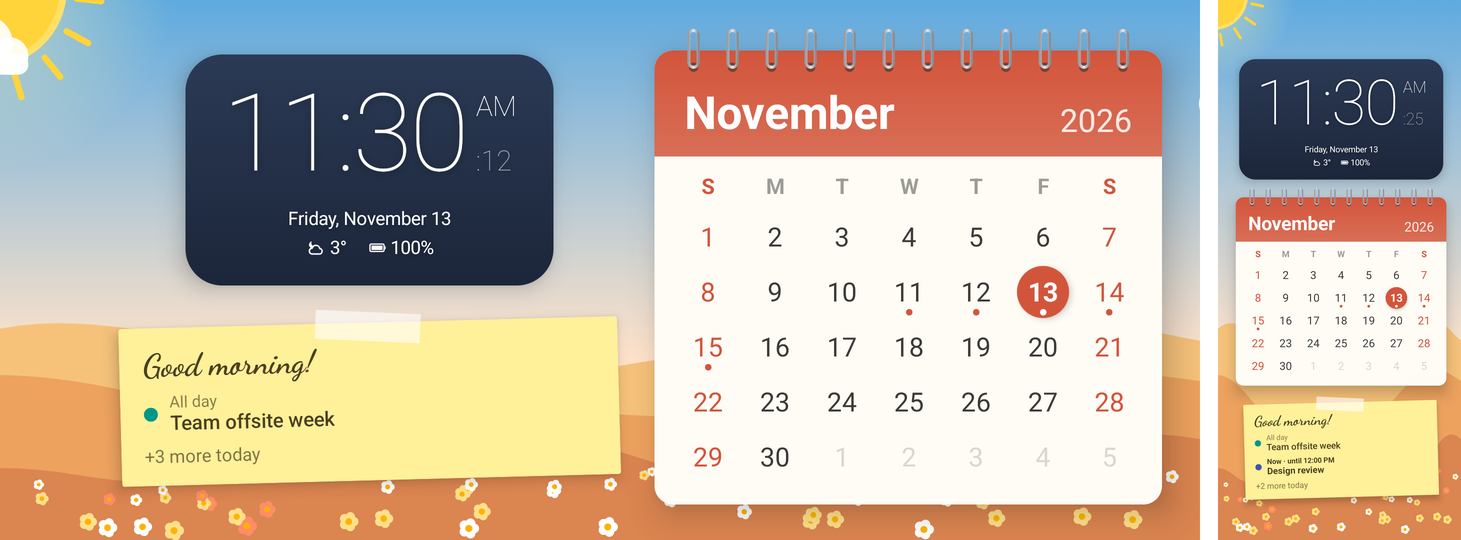
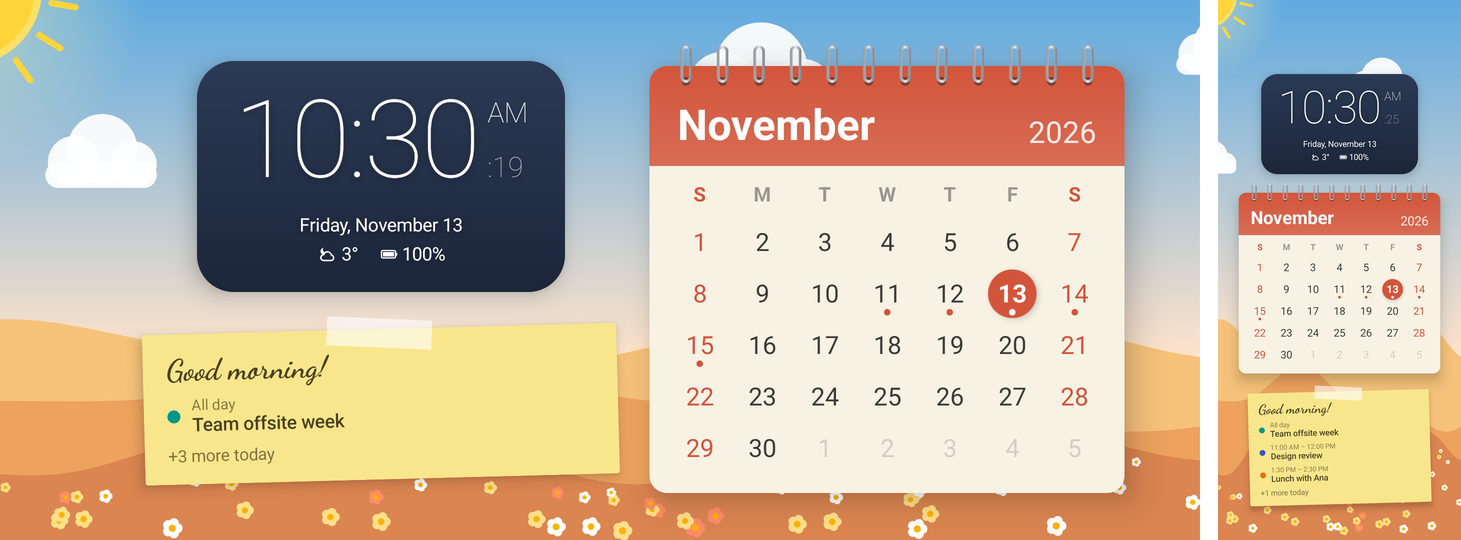
Strengthen Day mode's burn-in protection and fix its layout
Burn-in: with burn-in protection on, Day mode leaves a tenth of the
screen free so the drift moves it further, and in landscape the clock
and the calendar page swap sides every hour. The background keeps
moving: the hills scroll slowly, the sun circles its corner and a
photo pans. The page and the sticky note use warm tones below white.

Layout fixes from a real phone: the info line wraps onto a second line
instead of squeezing the next alarm into one letter per line (which
also made the clock panel tall enough to push the sticky note off
screen), AM/PM and seconds never break across lines, and the clock is
sized for the panel's padding. The clock's buttons are filled navy in
Day mode so they read over the bright background.

diff --git a/app/src/main/java/com/adl/nocturna/clock/ClockScreen.kt b/app/src/main/java/com/adl/nocturna/clock/ClockScreen.kt
@@ -25,6 +25,7 @@ import androidx.compose.foundation.layout.size
 import androidx.compose.foundation.layout.width
 import androidx.compose.foundation.layout.PaddingValues
 import androidx.compose.foundation.shape.CircleShape
+import androidx.compose.foundation.shape.RoundedCornerShape
 import androidx.compose.material3.ButtonDefaults
 import androidx.compose.ui.semantics.contentDescription
 import androidx.compose.ui.semantics.semantics
@@ -67,6 +68,7 @@ import com.adl.nocturna.notify.NotificationIconService
 import com.adl.nocturna.radio.Radio
 import com.adl.nocturna.ui.Glyph
 import com.adl.nocturna.ui.GlyphIcon
+import com.adl.nocturna.ui.DeskNavy
 import com.adl.nocturna.ui.NightRed
 import com.adl.nocturna.weather.WeatherRepository
 import com.adl.nocturna.weather.pickForecast
@@ -159,8 +161,9 @@ fun ClockScreen(
             )
     ) {
         val landscape = maxWidth > maxHeight
-        // In day mode the clock gets half the width (landscape) or the top of the screen (portrait).
-        val clockWidth = if (day && landscape) maxWidth * 0.5f else maxWidth
+        // In day mode the clock gets half the width (landscape) or the top of the screen (portrait),
+        // less the burn-in margin and the desk clock panel's padding.
+        val clockWidth = if (day) maxWidth * (if (landscape) 0.5f else 1f) * 0.9f - 72.dp else maxWidth
         val clockFontDp: Dp = minOf(
             clockWidth * (if (landscape && !day) 0.62f else 0.85f) / (if (settings.showSeconds || !settings.use24h) 3.3f else 2.8f),
             maxHeight * when {
@@ -194,8 +197,10 @@ fun ClockScreen(
         if (day) DayBackground(now, settings.dayPhotoVersion, Modifier.fillMaxSize())
 
         DriftLayout(enabled = settings.burnInProtection, modifier = Modifier.safeDrawingPadding().padding(16.dp)) {
-            // Day mode fills the screen; leaving a sliver free still lets burn-in protection move it.
-            if (day) DayLayout(landscape, now, settings, Modifier.fillMaxSize(0.96f), clock) else clock()
+            // Day mode fills the screen and stays up all day: with burn-in protection it leaves a tenth
+            // of the screen free, so the drift moves it noticeably.
+            if (day) DayLayout(landscape, now, settings, Modifier.fillMaxSize(if (settings.burnInProtection) 0.9f else 0.96f), clock)
+            else clock()
         }
 
         if (interactive) {
@@ -234,7 +239,13 @@ private fun InfoBlock(
         Spacer(Modifier.height(glyphSize * 0.4f))
     }
 
-    Row(horizontalArrangement = Arrangement.spacedBy(glyphSize * 1.2f), verticalAlignment = Alignment.CenterVertically) {
+    // Weather, forecast, battery and next alarm wrap onto a second line when they don't fit; in a Row
+    // the last item was squeezed until it stacked one letter per line.
+    FlowRow(
+        horizontalArrangement = Arrangement.spacedBy(glyphSize * 1.2f, Alignment.CenterHorizontally),
+        verticalArrangement = Arrangement.spacedBy(glyphSize * 0.3f),
+        itemVerticalAlignment = Alignment.CenterVertically,
+    ) {
         val w = weather
         if (settings.showWeather && w != null) {
             Row(verticalAlignment = Alignment.CenterVertically) {
@@ -245,12 +256,12 @@ private fun InfoBlock(
                     Spacer(Modifier.width(glyphSize * 0.6f))
                     val forecastStyle = style.copy(color = style.color.copy(alpha = style.color.alpha * 0.75f))
                     if (pick.tomorrow) {
-                        Text(pick.day.date.dayOfWeek.getDisplayName(DateTextStyle.SHORT, locale), style = forecastStyle)
+                        Text(pick.day.date.dayOfWeek.getDisplayName(DateTextStyle.SHORT, locale), style = forecastStyle, softWrap = false)
                         Spacer(Modifier.width(glyphSize * 0.3f))
                         GlyphIcon(pick.day.glyph, forecastStyle.color, glyphSize)
                         Spacer(Modifier.width(glyphSize * 0.3f))
                     }
-                    Text(pick.day.highLowText(settings.weatherFahrenheit), style = forecastStyle)
+                    Text(pick.day.highLowText(settings.weatherFahrenheit), style = forecastStyle, softWrap = false)
                 }
             }
         }
@@ -260,7 +271,7 @@ private fun InfoBlock(
                 GlyphIcon(Glyph.BATTERY, style.color, glyphSize, level = b.level)
                 if (b.charging) GlyphIcon(Glyph.BOLT, style.color, glyphSize * 0.8f)
                 Spacer(Modifier.width(glyphSize * 0.2f))
-                Text("${(b.level * 100).toInt()}%", style = style)
+                Text("${(b.level * 100).toInt()}%", style = style, softWrap = false)
             }
         }
         val a = nextAlarm
@@ -287,7 +298,7 @@ private fun Item(glyph: Glyph, text: String, color: Color, style: TextStyle, siz
     Row(verticalAlignment = Alignment.CenterVertically) {
         GlyphIcon(glyph, style.color, size)
         Spacer(Modifier.width(size * 0.3f))
-        Text(text, style = style)
+        Text(text, style = style, softWrap = false)
     }
 }
 
@@ -322,11 +333,22 @@ private fun Controls(
     val radioOn by Radio.isOn.collectAsStateWithLifecycle()
     val sleepAt by Radio.sleepAt.collectAsStateWithLifecycle()
     val error by Radio.error.collectAsStateWithLifecycle()
-    val buttonColors = ButtonDefaults.outlinedButtonColors(contentColor = color)
-    val border = BorderStroke(1.dp, color.copy(alpha = 0.5f))
+    // Over day mode's bright background, see-through buttons vanish: fill them in the desk clock's navy.
+    val buttonColors = if (day) ButtonDefaults.outlinedButtonColors(containerColor = DeskNavy, contentColor = Color.White)
+    else ButtonDefaults.outlinedButtonColors(contentColor = color)
+    val border = if (day) BorderStroke(1.dp, Color.White.copy(alpha = 0.35f)) else BorderStroke(1.dp, color.copy(alpha = 0.5f))
 
     Column(horizontalAlignment = Alignment.CenterHorizontally) {
-        error?.let { Text(it, color = color.copy(alpha = 0.8f), fontSize = 14.sp, modifier = Modifier.padding(bottom = 8.dp)) }
+        error?.let {
+            Text(
+                it,
+                color = if (day) Color.White else color.copy(alpha = 0.8f),
+                fontSize = 14.sp,
+                modifier = Modifier
+                    .padding(bottom = 8.dp)
+                    .then(if (day) Modifier.background(DeskNavy, RoundedCornerShape(12.dp)).padding(horizontal = 12.dp, vertical = 6.dp) else Modifier),
+            )
+        }
         FlowRow(
             horizontalArrangement = Arrangement.spacedBy(8.dp, Alignment.CenterHorizontally),
             itemVerticalAlignment = Alignment.CenterVertically,

diff --git a/app/src/main/java/com/adl/nocturna/day/DayScreen.kt b/app/src/main/java/com/adl/nocturna/day/DayScreen.kt
@@ -1,6 +1,8 @@
 package com.adl.nocturna.day
 
 import android.text.format.DateFormat
+import androidx.compose.animation.Crossfade
+import androidx.compose.animation.core.tween
 import androidx.compose.foundation.Canvas
 import androidx.compose.foundation.Image
 import androidx.compose.foundation.background
@@ -30,6 +32,7 @@ import androidx.compose.ui.Modifier
 import androidx.compose.ui.draw.clip
 import androidx.compose.ui.draw.rotate
 import androidx.compose.ui.draw.shadow
+import androidx.compose.ui.graphics.graphicsLayer
 import androidx.compose.ui.geometry.CornerRadius
 import androidx.compose.ui.geometry.Offset
 import androidx.compose.ui.geometry.Size
@@ -59,9 +62,10 @@ import java.time.ZonedDateTime
 import java.time.format.DateTimeFormatter
 import java.time.temporal.WeekFields
 
-private val Paper = Color(0xFFFFFCF5)
+// Warm and a touch below white: kinder to OLED pixels lit all day, and it still reads as paper.
+private val Paper = Color(0xFFF8F2E4)
 private val Ink = Color(0xFF3B3A36)
-private val NoteYellow = Color(0xFFFFF09A)
+private val NoteYellow = Color(0xFFF8E68C)
 private val NoteInk = Color(0xFF4A3F1F)
 
 /**
@@ -77,7 +81,19 @@ fun DayBackground(now: ZonedDateTime, photoVersion: Long, modifier: Modifier = M
     Box(modifier) {
         val p = photo
         if (p != null) {
-            Image(p, contentDescription = null, contentScale = ContentScale.Crop, modifier = Modifier.fillMaxSize())
+            // A slow pan, so no part of the photo stays on the same pixels all day.
+            val (panX, panY) = photoPan(now.toLocalTime().toSecondOfDay().toFloat())
+            Image(
+                p,
+                contentDescription = null,
+                contentScale = ContentScale.Crop,
+                modifier = Modifier.fillMaxSize().graphicsLayer {
+                    scaleX = PHOTO_SCALE
+                    scaleY = PHOTO_SCALE
+                    translationX = panX * size.width
+                    translationY = panY * size.height
+                },
+            )
             // Shade the top and bottom a little so the white clock and the page stand out on any photo.
             Box(
                 Modifier.fillMaxSize().background(
@@ -114,19 +130,27 @@ fun DayLayout(
     BoxWithConstraints(modifier) {
         val noteFont = with(LocalDensity.current) { (minOf(maxWidth, maxHeight) * 0.042f).coerceIn(14.dp, 22.dp).toSp() }
         if (landscape) {
-            Row(Modifier.fillMaxSize(), verticalAlignment = Alignment.CenterVertically) {
-                Column(
-                    Modifier.weight(1f).fillMaxHeight(),
-                    horizontalAlignment = Alignment.CenterHorizontally,
-                    verticalArrangement = Arrangement.spacedBy(20.dp, Alignment.CenterVertically),
-                ) {
-                    ClockPanel(clock)
-                    if (settings.showCalendarEvents) {
-                        StickyNote(now, events, settings.use24h, theme, noteFont, Modifier.widthIn(max = 380.dp).weight(1f, fill = false))
+            // Every other hour the clock and the page trade places, so the bright page and the dark
+            // clock don't sit on the same pixels all day.
+            Crossfade(sidesSwapped(now.hour, settings.burnInProtection), animationSpec = tween(1500), label = "sides") { swapped ->
+                Row(Modifier.fillMaxSize(), verticalAlignment = Alignment.CenterVertically) {
+                    val clockSide = @Composable {
+                        Column(
+                            Modifier.weight(1f).fillMaxHeight(),
+                            horizontalAlignment = Alignment.CenterHorizontally,
+                            verticalArrangement = Arrangement.spacedBy(20.dp, Alignment.CenterVertically),
+                        ) {
+                            ClockPanel(clock)
+                            if (settings.showCalendarEvents) {
+                                StickyNote(now, events, settings.use24h, theme, noteFont, Modifier.widthIn(max = 380.dp).weight(1f, fill = false))
+                            }
+                        }
                     }
+                    val pageSide = @Composable { DeskPage(today, weeks, dots, theme, Modifier.weight(1f).fillMaxHeight()) }
+                    if (swapped) pageSide() else clockSide()
+                    Spacer(Modifier.width(24.dp))
+                    if (swapped) clockSide() else pageSide()
                 }
-                Spacer(Modifier.width(24.dp))
-                DeskPage(today, weeks, dots, theme, Modifier.weight(1f).fillMaxHeight())
             }
         } else {
             Column(Modifier.fillMaxSize(), horizontalAlignment = Alignment.CenterHorizontally) {

diff --git a/app/src/main/java/com/adl/nocturna/day/Scene.kt b/app/src/main/java/com/adl/nocturna/day/Scene.kt
@@ -88,7 +88,8 @@ fun SceneBackground(theme: MonthTheme, time: LocalTime, seed: Int, modifier: Mod
         // The sun peeks in from the top corner, out of the clock's way; its rays turn slowly.
         val seconds = time.toSecondOfDay().toFloat()
         val sunR = minOf(w, h) * 0.13f
-        val sun = Offset(-sunR * 0.15f, -sunR * 0.15f)
+        val (wx, wy) = sunWobble(seconds)
+        val sun = Offset(sunR * (wx - 0.15f), sunR * (wy - 0.15f))
         drawCircle(Brush.radialGradient(listOf(Color(0x88FFF3B0), Color.Transparent), sun, sunR * 2.6f), sunR * 2.6f, sun)
         rotate(seconds * 0.5f % 360f, sun) {
             for (i in 0 until 16) {
@@ -124,7 +125,8 @@ fun SceneBackground(theme: MonthTheme, time: LocalTime, seed: Int, modifier: Mod
                 val steps = 64
                 for (s in 0..steps) {
                     val fx = s / steps.toFloat()
-                    lineTo(fx * w, hillY(hill, fx) * h)
+                    // The hills scroll very slowly, so their edges never sit on the same pixels for long.
+                    lineTo(fx * w, hillY(hill, fx + hillShift(seconds, i)) * h)
                 }
                 lineTo(w, h)
                 close()
@@ -135,15 +137,16 @@ fun SceneBackground(theme: MonthTheme, time: LocalTime, seed: Int, modifier: Mod
         val rnd = Random(seed * 31 + 7)
         if (theme.trees) {
             // On the near hill, so the page and the note don't hide them; sorted so lower trees draw in front.
-            List(14) { rnd.nextFloat() to rnd.nextFloat() }.sortedBy { it.second }.forEach { (fx, depth) ->
-                val top = hillY(HILLS[2], fx)
+            List(14) { rnd.nextFloat() to rnd.nextFloat() }.sortedBy { it.second }.forEach { (start, depth) ->
+                val fx = travel(start, seconds)
+                val top = nearHillY(fx, seconds)
                 tree(fx * w, (top + 0.02f + depth * (1f - top - 0.04f)) * h, minOf(w, h) * (0.07f + depth * 0.07f))
             }
         }
         if (theme.flowers.isNotEmpty()) {
             repeat(55) {
-                val fx = rnd.nextFloat()
-                val top = hillY(HILLS[2], fx)
+                val fx = travel(rnd.nextFloat(), seconds)
+                val top = nearHillY(fx, seconds)
                 val fy = top + 0.015f + rnd.nextFloat() * (1f - top - 0.03f)
                 // Nearer (lower) flowers are bigger.
                 val r = minOf(w, h) * (0.006f + 0.012f * (fy - top) / (1f - top))
@@ -152,6 +155,12 @@ fun SceneBackground(theme: MonthTheme, time: LocalTime, seed: Int, modifier: Mod
         }
     }
 }
+
+/** Where something on the near hill that started at [start] has travelled to, wrapping around the screen. */
+private fun travel(start: Float, seconds: Float): Float = ((start - hillShift(seconds, 2)) % 1f + 1f) % 1f
+
+/** The near hill's top at screen position [x], as it has scrolled by [seconds]. */
+private fun nearHillY(x: Float, seconds: Float): Float = hillY(HILLS[2], x + hillShift(seconds, 2))
 
 private fun DrawScope.cloud(x: Float, y: Float, w: Float) {
     val white = Color.White.copy(alpha = 0.92f)

diff --git a/app/src/main/java/com/adl/nocturna/day/BurnIn.kt b/app/src/main/java/com/adl/nocturna/day/BurnIn.kt
@@ -1,0 +1,39 @@
+package com.adl.nocturna.day
+
+import kotlin.math.PI
+import kotlin.math.cos
+import kotlin.math.sin
+
+/*
+ * Day mode stays on screen for a whole working day, so on OLED screens nothing in it may stay put:
+ * the layout drifts (ClockScreen's DriftLayout), swaps sides every hour in landscape, and the
+ * background keeps moving slowly. These are the timings, kept here so they can be tested.
+ */
+
+/** Whether the clock and the calendar page trade places: every other hour, when burn-in protection is on. */
+fun sidesSwapped(hour: Int, burnInProtection: Boolean): Boolean = burnInProtection && hour % 2 == 1
+
+/** Seconds for the near hill to scroll one screen width; farther hills go slower, for depth. */
+private const val HILL_PERIOD = 4 * 3600f
+
+/** How far hill [layer] (0 = farthest) has scrolled, in screen widths, [seconds] into the day. */
+fun hillShift(seconds: Float, layer: Int): Float = seconds / HILL_PERIOD * (layer + 1) / 3f
+
+/** The background photo is drawn this much larger than the screen, so it can pan without showing an edge. */
+const val PHOTO_SCALE = 1.08f
+
+/**
+ * Where the background photo has panned to [seconds] into the day, as fractions of the screen
+ * (x, y): a slow loop every two hours that never reaches past the extra room [PHOTO_SCALE] leaves.
+ */
+fun photoPan(seconds: Float): Pair<Float, Float> {
+    val reach = (PHOTO_SCALE - 1f) / 2f * 0.85f
+    val t = 2 * PI * seconds / 7200.0
+    return (reach * sin(t)).toFloat() to (reach * cos(t * 0.5)).toFloat()
+}
+
+/** The sun's small circle around its corner, as fractions of its radius, once an hour. */
+fun sunWobble(seconds: Float): Pair<Float, Float> {
+    val t = 2 * PI * seconds / 3600.0
+    return (0.35 * cos(t)).toFloat() to (0.35 * sin(t)).toFloat()
+}

diff --git a/app/src/test/java/com/adl/nocturna/day/BurnInTest.kt b/app/src/test/java/com/adl/nocturna/day/BurnInTest.kt
@@ -1,0 +1,38 @@
+package com.adl.nocturna.day
+
+import org.junit.Assert.assertEquals
+import org.junit.Assert.assertFalse
+import org.junit.Assert.assertTrue
+import org.junit.Test
+import kotlin.math.abs
+
+class BurnInTest {
+    @Test fun sidesSwapEveryOtherHour() {
+        assertFalse(sidesSwapped(10, burnInProtection = true))
+        assertTrue(sidesSwapped(11, burnInProtection = true))
+        assertFalse(sidesSwapped(12, burnInProtection = true))
+    }
+
+    @Test fun sidesStayPutWithoutBurnInProtection() =
+        assertTrue((0..23).none { sidesSwapped(it, burnInProtection = false) })
+
+    @Test fun nearHillsScrollFasterThanFarOnes() {
+        val s = 5_000f
+        assertTrue(hillShift(s, 2) > hillShift(s, 1))
+        assertTrue(hillShift(s, 1) > hillShift(s, 0))
+        assertEquals(1f, hillShift(4 * 3600f, 2), 0.0001f)
+    }
+
+    @Test fun photoNeverPansPastItsExtraRoom() {
+        val room = (PHOTO_SCALE - 1f) / 2f
+        for (s in 0 until 86_400 step 60) {
+            val (x, y) = photoPan(s.toFloat())
+            assertTrue("x=$x at $s", abs(x) < room)
+            assertTrue("y=$y at $s", abs(y) < room)
+        }
+    }
+
+    @Test fun photoKeepsMoving() {
+        assertTrue(photoPan(0f) != photoPan(600f))
+    }
+}

diff --git a/app/src/main/java/com/adl/nocturna/clock/ClockFaces.kt b/app/src/main/java/com/adl/nocturna/clock/ClockFaces.kt
@@ -87,10 +87,10 @@ fun DigitalClock(
             val small = style.copy(fontSize = fontSize * 0.26f, letterSpacing = 0.em)
             val gap = with(LocalDensity.current) { (fontSize * 0.06f).toDp() }
             Column(Modifier.alignBy(LastBaseline).padding(start = gap)) {
-                if (!use24h) Text(now.format(DateTimeFormatter.ofPattern("a", locale)), style = small)
+                if (!use24h) Text(now.format(DateTimeFormatter.ofPattern("a", locale)), style = small, softWrap = false)
                 if (!use24h && showSeconds) Spacer(Modifier.height(with(LocalDensity.current) { (fontSize * 0.2f).toDp() }))
                 if (showSeconds) {
-                    Text(now.format(DateTimeFormatter.ofPattern(":ss")), style = small.copy(color = color.copy(alpha = color.alpha * 0.6f)))
+                    Text(now.format(DateTimeFormatter.ofPattern(":ss")), style = small.copy(color = color.copy(alpha = color.alpha * 0.6f)), softWrap = false)
                 }
             }
         }

diff --git a/app/src/main/java/com/adl/nocturna/ui/Theme.kt b/app/src/main/java/com/adl/nocturna/ui/Theme.kt
@@ -60,3 +60,6 @@ fun currentLocale(): Locale = LocalConfiguration.current.locales[0]
 
 /** The dim red used in night mode; red light disturbs night vision and sleep the least. */
 val NightRed = Color(0xFFC62828)
+
+/** The navy of day mode's desk clock and of the buttons over it. */
+val DeskNavy = Color(0xFF223049)

diff --git a/README.md b/README.md
@@ -39,6 +39,8 @@ The bedside clock is for the night; Day mode is for the desk, when your phone si
 
 Side by side in landscape, stacked in portrait. Day mode never turns night red; brightness still follows the room light if *Adjust to room light* is on.
 
+**Burn-in protection**: Day mode stays on screen all day, so on OLED screens nothing in it stays put. With *Burn-in protection* on, the layout drifts around a tenth of the screen, and in landscape the clock and the calendar page swap sides every hour. The background keeps moving whatever the setting: the hills scroll slowly, the sun circles its corner and your own photo pans gently. The page and the note use warm tones a touch below white.
+
 **Turning it on**: in Settings › Day mode, pick *On*, or *On a schedule* with the hours and days you work, for example weekdays 09:00–18:00 (hours can run past midnight). On the clock, tap it, then *Day mode* or *Clock only*; with a schedule, that lasts until the schedule's next start or end. The screen saver follows the same setting.
 
 **Today's events** (Settings › Day mode › *Today's events*): read from the calendars synced to the phone, such as Google Calendar. Hidden calendars and invitations you declined are left out. Nocturna asks for calendar access when you turn this on and only ever reads; without access you get the calendar page alone.

diff --git a/CHANGELOG.md b/CHANGELOG.md
@@ -27,7 +27,9 @@ one-line summary written for users.
   the rest of today's events from the calendars on your phone, with the one in progress marked *Now*. Behind
   them is a sunny scene that changes every month (blossoms in April, sunflowers in August, snow in December),
   or a photo of your own. Turn it on from the clock's controls or in Settings; today's events need calendar
-  access, and without it you get the page alone. Day mode never turns night red.
+  access, and without it you get the page alone. Day mode never turns night red. Because it stays up all day,
+  burn-in protection moves it around more, swaps the clock and the page every hour in landscape, and keeps
+  the background slowly moving.
 - **Day mode on a schedule:** set Day mode to *On a schedule* with the hours and days you work, for example
   weekdays 09:00–18:00, and the clock switches to the calendar and back on its own. Hours can run past
   midnight. The *Day mode* / *Clock only* button on the clock overrides the schedule until its next start or
